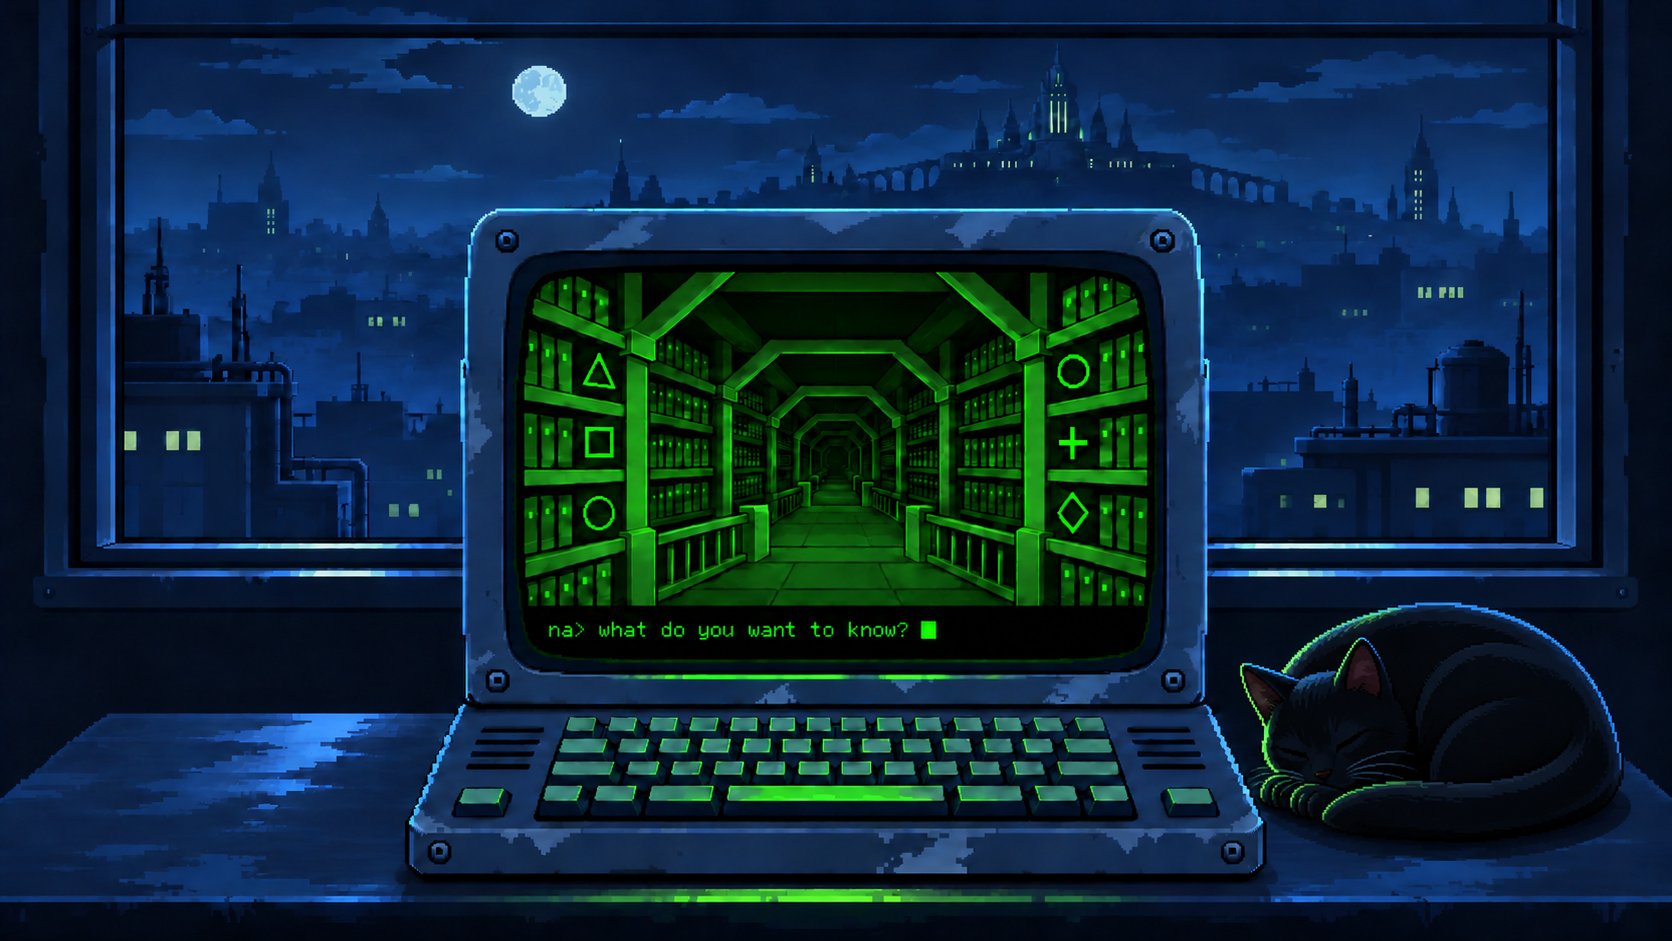
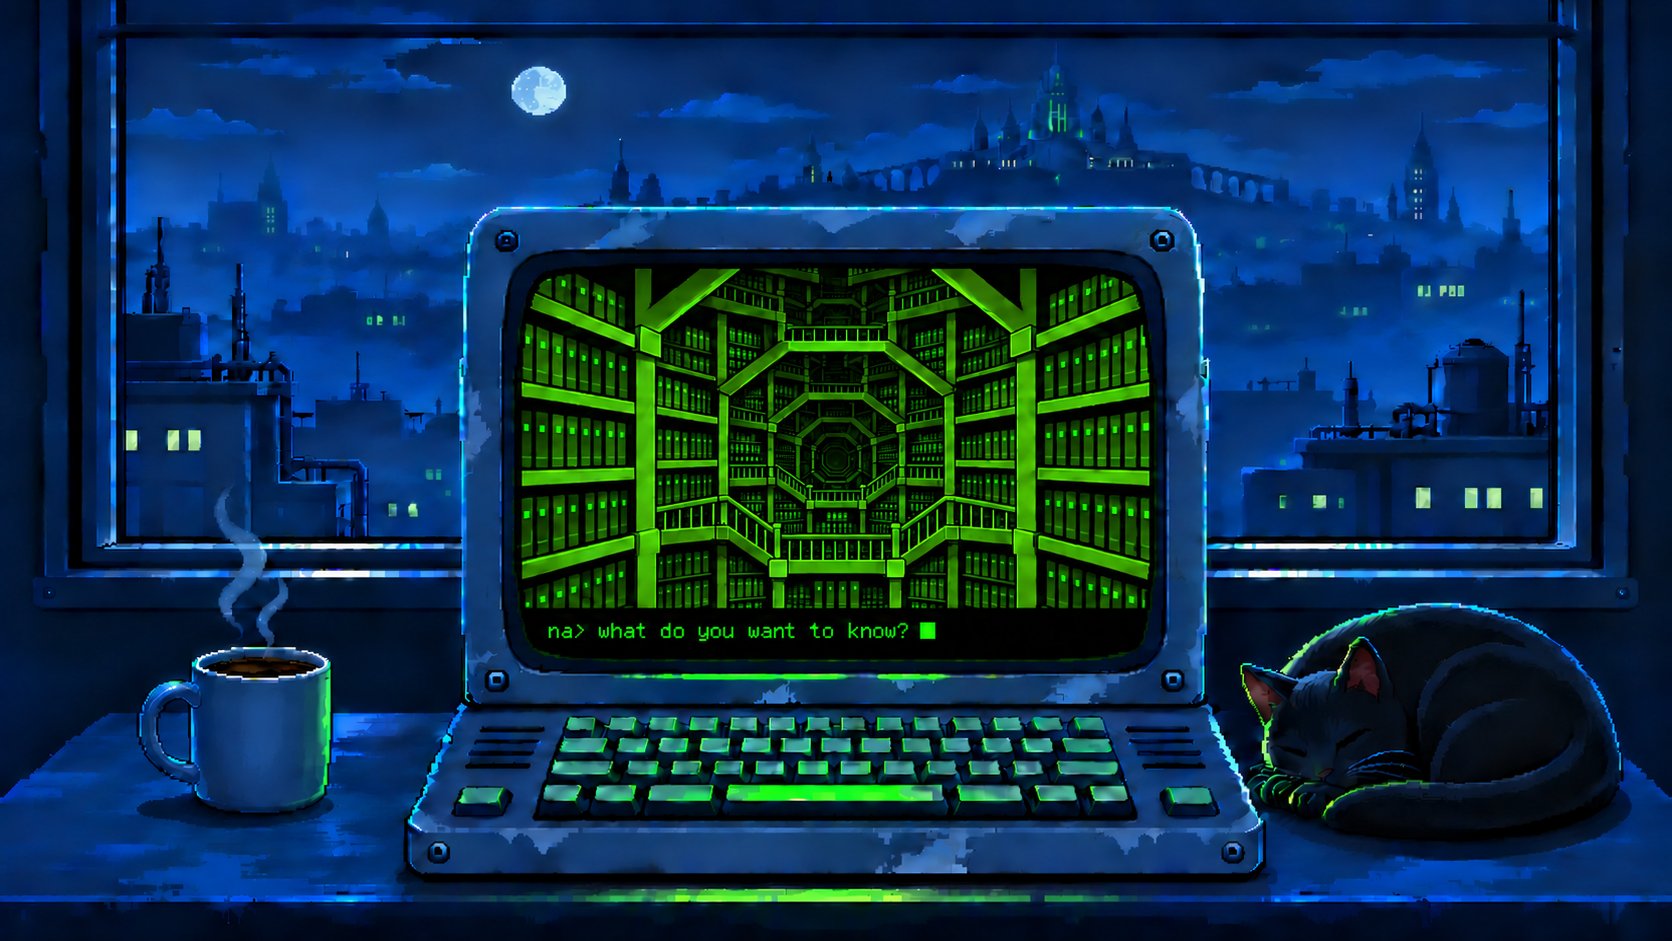
Refine the Neo-Alexandria README illustration (#2)

diff --git a/README.md b/README.md
@@ -1,4 +1,4 @@
-![A pixel-art terminal showing a green library, with a sleeping black cat beside it and a moonlit city behind it.](assets/neo-alexandria.png)
+![A pixel-art terminal showing a spiraling green library, with a steaming mug to the left, a sleeping black cat to the right, and a moonlit city behind it.](assets/neo-alexandria.png)
 
 # A vision of Neo-Alexandria
 
